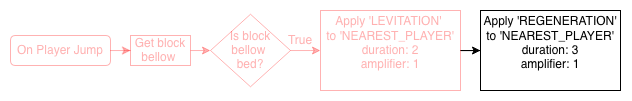
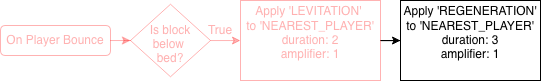
Updates to bed bouncer

diff --git a/tutorials/python-islands/island-7/bed_bouncer/bed_bouncer_1.md b/tutorials/python-islands/island-7/bed_bouncer/bed_bouncer_1.md
@@ -47,7 +47,7 @@ def on_jump():
 player.on_travelled(BOUNCE, on_jump)
 ```
 
-If the player is jumping on a bed, apply `LEVITATION` to the player.
+If the player is jumping on a bed, apply `LEVITATION` to the nearest player.
 
 See above for some useful code.
 
@@ -59,4 +59,4 @@ Code the black part of the flowchart. Stuck? Check the hint.
 
 ```python
 ```
-Within the if statement, apply `REGENERATION` to the player.
+After applying `LEVITATION`, apply `REGENERATION` to the nearest player.
